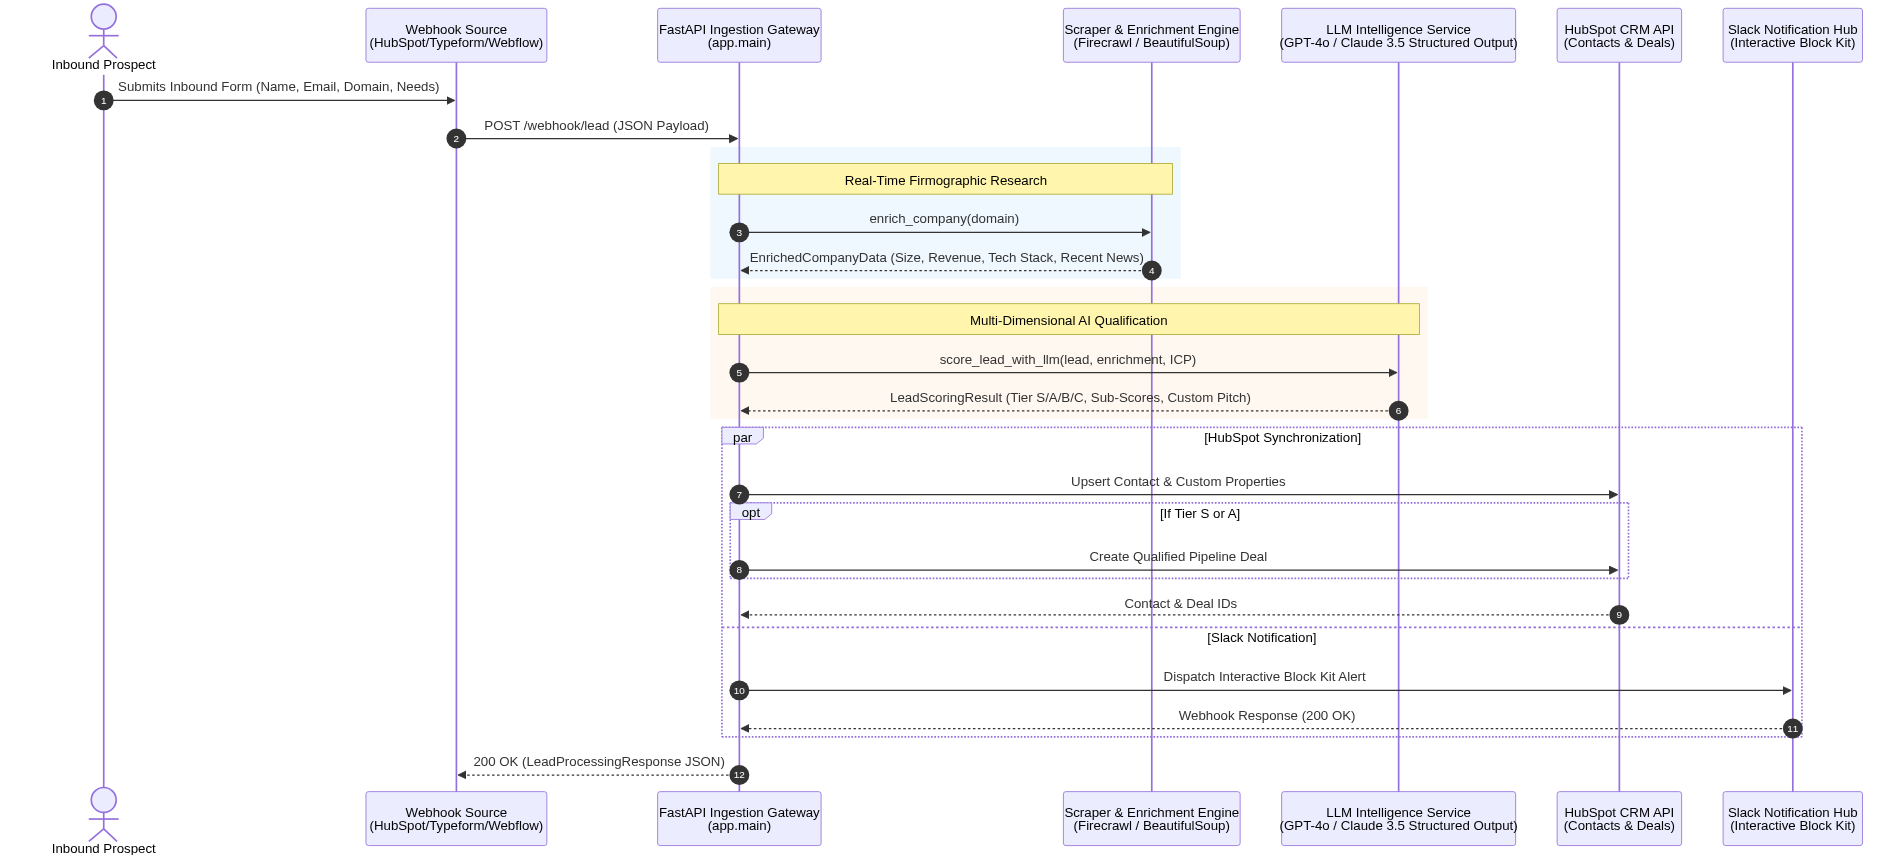
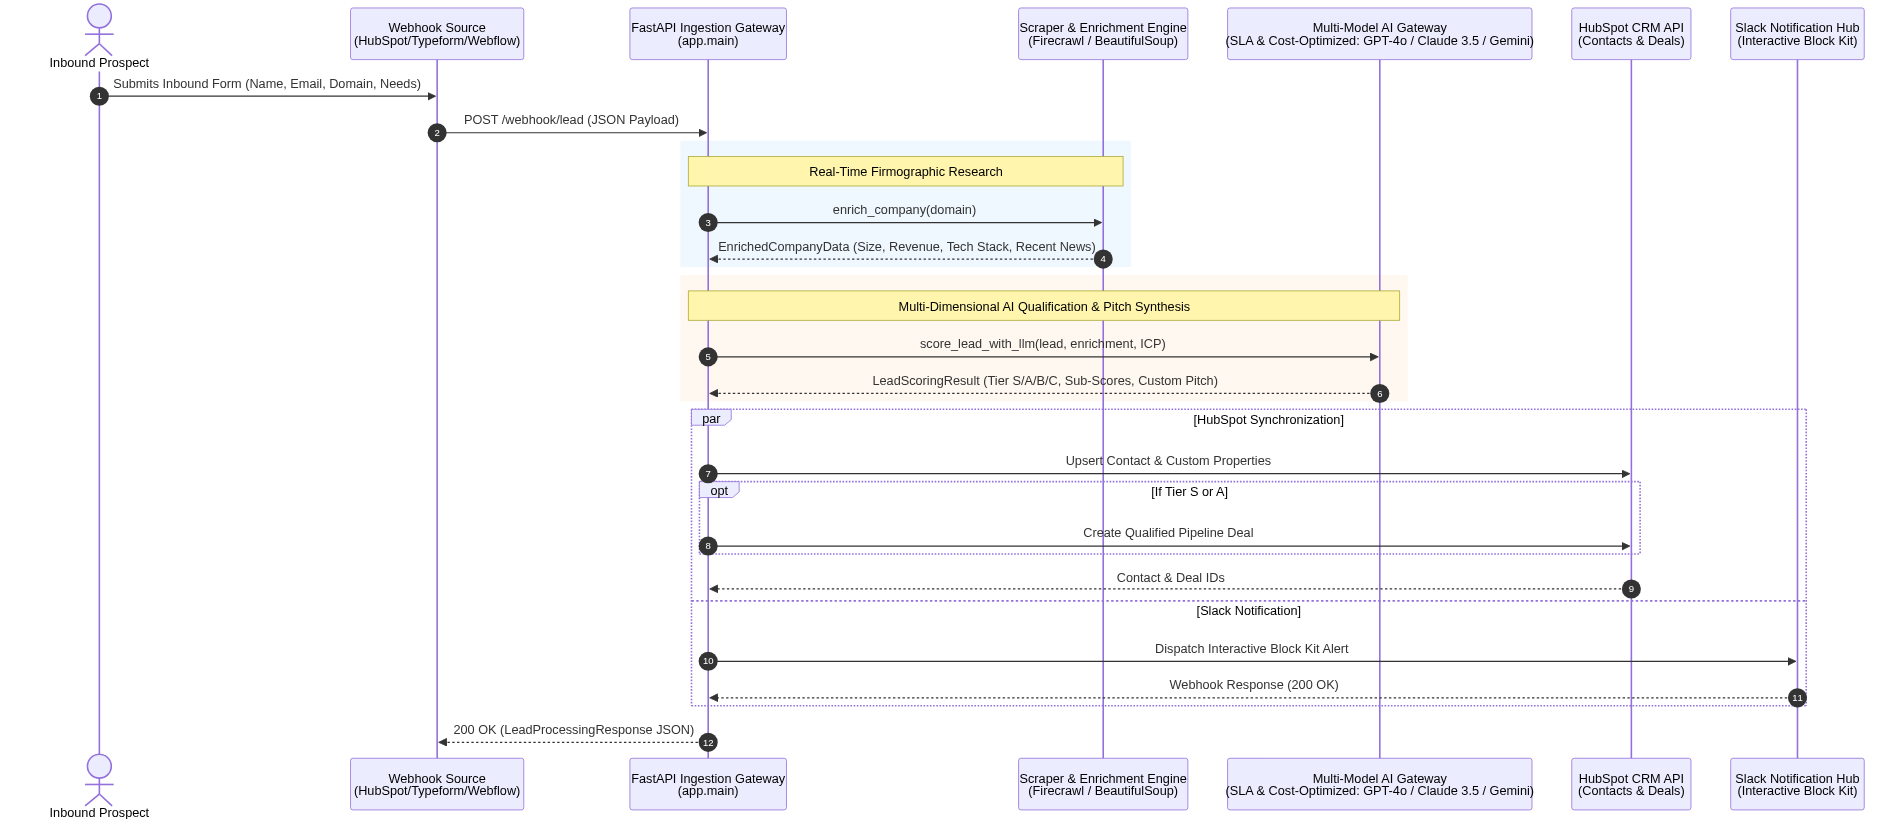
docs: upgrade to SLA & cost-optimized multi-model gateway architecture

diff --git a/README.md b/README.md
@@ -2,7 +2,7 @@
 
 [![FastAPI](https://img.shields.io/badge/FastAPI-0.111+-009688.svg?style=flat&logo=FastAPI&logoColor=white)](https://fastapi.tiangolo.com)
 [![Pydantic v2](https://img.shields.io/badge/Pydantic-v2-E92063.svg?style=flat&logo=Pydantic&logoColor=white)](https://docs.pydantic.dev/)
-[![OpenAI GPT-4o](https://img.shields.io/badge/Model-GPT--4o%20%7C%20Claude--3.5--Sonnet-412991.svg?style=flat&logo=openai&logoColor=white)](https://platform.openai.com)
+[![Multi-Model Gateway](https://img.shields.io/badge/AI%20Gateway-GPT--4o%20%7C%20Claude--3.5%20%7C%20Gemini-412991.svg?style=flat&logo=openai&logoColor=white)](https://platform.openai.com)
 [![HubSpot CRM](https://img.shields.io/badge/CRM-HubSpot%20REST%20v3-FF7A59.svg?style=flat&logo=hubspot&logoColor=white)](https://developers.hubspot.com/)
 [![Slack Block Kit](https://img.shields.io/badge/Notification-Slack%20Block%20Kit-4A154B.svg?style=flat&logo=slack&logoColor=white)](https://api.slack.com/block-kit)
 [![Docker](https://img.shields.io/badge/Container-Docker%20Ready-2496ED.svg?style=flat&logo=docker&logoColor=white)](https://www.docker.com/)
@@ -24,13 +24,17 @@ Yet, traditional sales workflows are plagued by manual qualification lag:
 
 **Enterprise AI Lead Scoring & Enrichment Engine** solves this systemic RevOps bottleneck. The moment a prospect submits a web form or demo request:
 1. **Instant Firmographic Enrichment**: Crawls and extracts company scale, technology stack, and business model in milliseconds.
-2. **Deterministic LLM Qualification**: Leverages `GPT-4o` / `Claude 3.5 Sonnet` via **Structured Outputs** to score the lead against Ideal Customer Profile (ICP) criteria, assigning a priority tier (**Tier S, A, B, C**).
+2. **SLA & Cost-Optimized Multi-Model Qualification**: Leverages a low-latency, high-throughput AI Gateway (`GPT-4o` / `Claude 3.5 Sonnet` / `Gemini`) via **Structured Outputs** to score the lead against Ideal Customer Profile (ICP) criteria, assigning a priority tier (**Tier S, A, B, C**).
 3. **Automated Pitch Synthesis**: Writes tailored value propositions, email subject lines, and tactical talking points customized to the prospect's exact pain points.
 4. **Autonomous CRM & Slack Orchestration**: Instantly syncs enriched records and deal stages to **HubSpot CRM** while pushing an interactive, actionable **Slack Block Kit** alert directly to assigned sales reps.
 
 ---
 
 ## 2. Architecture & Data Flow
+
+<p align="center">
+  <img src="docs/architecture_diagram.png" alt="Enterprise AI Lead Scoring & Enrichment Engine Architecture" width="100%" />
+</p>
 
 ```mermaid
 sequenceDiagram
@@ -39,7 +43,7 @@ sequenceDiagram
     participant WebForm as Webhook Source<br/>(HubSpot/Typeform/Webflow)
     participant FastAPI as FastAPI Ingestion Gateway<br/>(app.main)
     participant Scraper as Scraper & Enrichment Engine<br/>(Firecrawl / BeautifulSoup)
-    participant LLM as LLM Intelligence Service<br/>(GPT-4o / Claude 3.5 Structured Output)
+    participant LLM as Multi-Model AI Gateway<br/>(SLA & Cost-Optimized: GPT-4o / Claude 3.5 / Gemini)
     participant HubSpot as HubSpot CRM API<br/>(Contacts & Deals)
     participant Slack as Slack Notification Hub<br/>(Interactive Block Kit)
 
@@ -53,7 +57,7 @@ sequenceDiagram
     end
 
     rect rgb(255, 248, 240)
-        note over FastAPI,LLM: Multi-Dimensional AI Qualification
+        note over FastAPI,LLM: Multi-Dimensional AI Qualification & Pitch Synthesis
         FastAPI->>LLM: score_lead_with_llm(lead, enrichment, ICP)
         LLM-->>FastAPI: LeadScoringResult (Tier S/A/B/C, Sub-Scores, Custom Pitch)
     end
@@ -82,8 +86,14 @@ sequenceDiagram
 * **Firmographic Extraction**: Resolves canonical company name, estimated employee range, annual revenue scale, primary tech stack, and key market offerings.
 * **Zero-Downtime Deterministic Fallback**: Built-in benchmark intelligence for zero-latency testing and reliable sandbox demonstrations.
 
+### ⚡ SLA & Cost-Optimized AI Model Selection
+* **Why Not Heavy Reasoning Models (o1/o3)?** In real-time RevOps pipelines, CoT reasoning models introduce 15–40s latency, violating the <5 min speed-to-lead SLA.
+* **Why This Gateway Architecture?**
+  * **Ultra-Low Latency (< 3s)**: High-throughput execution ensures reps receive Slack alerts instantly.
+  * **Cost Optimization (< $0.003 / Inbound)**: Processing thousands of daily leads at a fraction of traditional enterprise SDR research costs.
+  * **100% Deterministic Schema Enforcement**: Guaranteed type-safe JSON schema enforcement via Pydantic v2 and OpenAI's `client.beta.chat.completions.parse` / Anthropic Tool Calling.
+
 ### 🧠 LLM-Based Structured Lead Scoring
-* **Native Structured Outputs**: Guarantees 100% type-safe JSON schema enforcement using Pydantic v2 and OpenAI's `client.beta.chat.completions.parse` / Anthropic Tool Calling.
 * **Multi-Dimensional Qualification Rubric**:
   * **ICP Fit Score (0–100)**: Evaluates industry match, headcount threshold (50–5,000), and revenue scale.
   * **Intent Urgency Score (0–100)**: Detects immediate buying triggers, budget mentions, implementation timelines, and acute operational pain points.
@@ -124,6 +134,10 @@ ai-lead-scoring/
 ├── pyproject.toml            # Project specifications & metadata
 ├── requirements.txt          # Python dependencies
 ├── README.md                 # System documentation & architectural brief
+│
+├── docs/
+│   ├── architecture_diagram.png # 4K Rendered architecture diagram
+│   └── architecture_diagram.svg # Vector architecture diagram
 │
 ├── app/
 │   ├── __init__.py
@@ -166,7 +180,7 @@ ai-lead-scoring/
 | **Backend Framework** | **Python 3.10+ / FastAPI** | High-performance asynchronous API framework |
 | **Data Validation** | **Pydantic v2 & Pydantic-Settings** | Strict data modeling and environment handling |
 | **Scraping Engine** | **Firecrawl API / BeautifulSoup4 / HTTPX** | Real-time web intelligence extraction |
-| **AI Orchestration** | **OpenAI (`gpt-4o`) / Anthropic (`claude-3-5-sonnet`)** | Structured output qualification & pitch authoring |
+| **AI Gateway** | **OpenAI (`gpt-4o`) / Anthropic (`claude-3-5-sonnet`) / Gemini** | High-throughput structured qualification & pitch authoring |
 | **CRM Integration** | **HubSpot REST API v3** | Automatic contact syncing and deal creation |
 | **Notification Hub** | **Slack API / Block Kit Builder** | Rich interactive sales alerts with actionable buttons |
 | **Testing & Quality** | **Pytest / Pytest-Asyncio** | End-to-end integration and endpoint validation |
@@ -343,7 +357,7 @@ curl http://localhost:8000/health
 For enterprise scale (>50,000 inbound submissions per month), this pipeline easily decouples into distributed microservices:
 1. **Asynchronous Task Queuing**: Wrap the `/webhook/lead` endpoint with **Celery + Redis** or **AWS SQS** for non-blocking sub-millisecond HTTP 202 acceptance.
 2. **HMAC Webhook Verification**: Implement cryptographic signature validation (e.g., `X-HubSpot-Signature`) to guarantee sender authenticity.
-3. **Multi-Model Fallback Circuit Breaker**: Auto-switch from OpenAI `gpt-4o` to Anthropic `claude-3-5-sonnet` if latency exceeds 2,500ms or rate limits trigger.
+3. **Multi-Model Fallback Circuit Breaker**: Auto-switch between OpenAI, Anthropic, and Google Cloud Vertex AI if latency exceeds 2,500ms or rate limits trigger.
 4. **Data Privacy & GDPR**: Enforce PII masking before dispatching web research prompts to external LLM providers.
 
 ---
